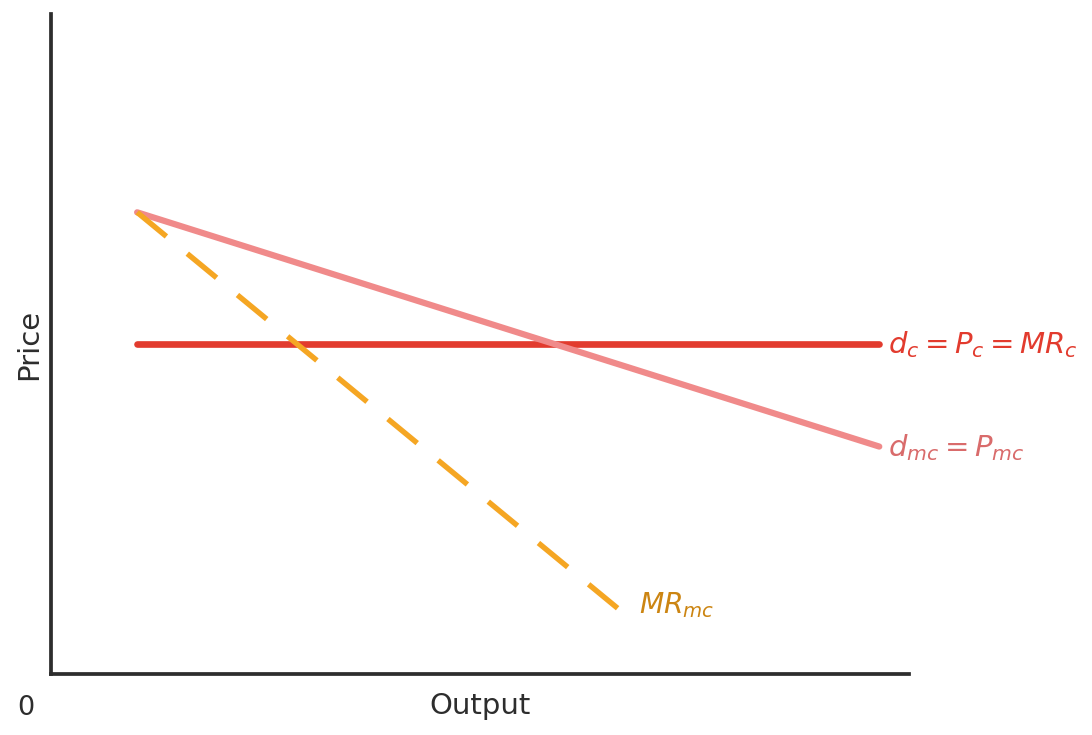
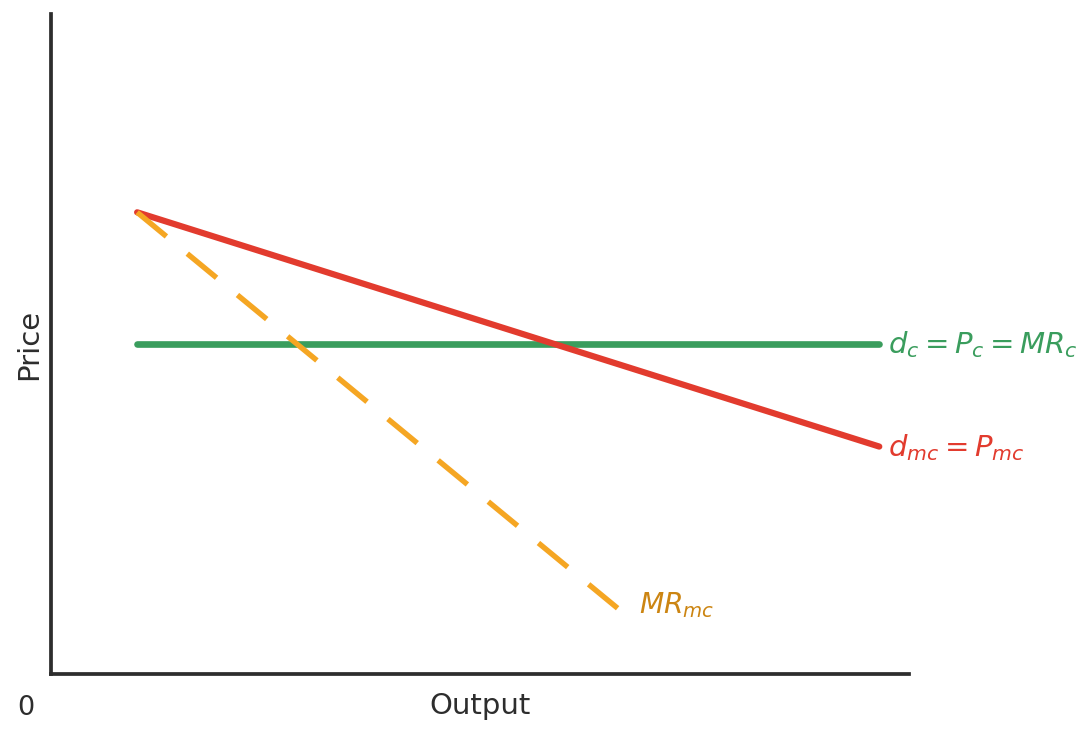
ch12: merge SR slides into one interactive Figure 12.1; embed Figure 12.2 on entry-exit; recolor demand (green PC / red MC)
- Merge MR=MC rule + SR-profit + SR-loss into one slide with the live interactive
  MonopolisticCompChart (Figure 12.1, scenario toggle) — deck 73->71.
- Entry-exit: embed the interactive MonopolisticCompLREquilibrium (Figure 12.2).
- Page-34 demand: d_c=P_c=MR_c green, d_mc=P_mc red.
- Charts iframe the ebook /figures/<slug>?embed=1; data-src lazy + poster fallback;
  iframes dropped in PDF export.

diff --git a/econ1116/ch12-monopolistic-competition/index.html b/econ1116/ch12-monopolistic-competition/index.html
@@ -587,50 +587,26 @@
 
 <!-- MR=MC rule -->
 <section id="mrmc-rule">
- <h2><i class="fa-solid fa-bullseye" style="color: var(--accent-color);"></i> The Profit-Maximizing Rule</h2>
- <div style="background: #eef3f6; border-radius: 12px; padding: 22px 28px; border-left: 5px solid var(--secondary-color); margin: 8px 0 18px 0; text-align: center;">
-  <p style="font-size: 12pt; letter-spacing: 1.5px; text-transform: uppercase; color: var(--secondary-color); font-weight: 700; margin-bottom: 8px;">Key Concept &mdash; same rule as monopoly</p>
-  <p style="font-size: 18pt; color: var(--primary-color); font-weight: 700;">Produce where MR = MC, then charge the price on the demand curve at that quantity.</p>
- </div>
- <div style="display: grid; grid-template-columns: 1fr 1fr; gap: 16px;">
-  <div style="background: #f8f6f3; border-radius: 10px; padding: 14px 20px;"><p style="font-size: 13.5pt;"><strong>Step 1.</strong> Find Q* where the MR curve crosses the MC curve.</p></div>
-  <div style="background: #f8f6f3; border-radius: 10px; padding: 14px 20px;"><p style="font-size: 13.5pt;"><strong>Step 2.</strong> Go <em>up</em> to the demand curve to read the price P*. Because P &gt; MR, we get P &gt; MC.</p></div>
- </div>
- <aside class="notes">Identical mechanic to Ch 11. The only difference is that close substitutes make this firm's demand much flatter (more elastic) than a monopolist's — so the markup is smaller.</aside>
-</section>
-
-<!-- SR profit -->
-<section id="sr-profit">
- <h2><i class="fa-solid fa-arrow-trend-up" style="color: var(--success-color);"></i> Outcome 1: Short-Run Profit (P &gt; ATC)</h2>
- <div style="display: grid; grid-template-columns: 1.05fr 1fr; gap: 20px; align-items: center;">
-  <div style="text-align: center;">
-   <img alt="Short-run economic profit: price above ATC, green profit rectangle" src="figures/fig-sr-profit.png" style="max-width: 100%; max-height: 430px; object-fit: contain; border-radius: 8px; box-shadow: 0 3px 14px rgba(0,0,0,0.14);">
-  </div>
+ <h2><i class="fa-solid fa-bullseye" style="color: var(--accent-color);"></i> Short-Run Profit Maximization: MR = MC</h2>
+ <div style="display: grid; grid-template-columns: 0.85fr 1.15fr; gap: 20px; align-items: center;">
   <div>
-   <div class="key-result"><p>At Q* (where MR = MC), the price on the demand curve sits <strong>above ATC</strong>. The green rectangle is <strong>economic profit</strong>.</p></div>
-   <div style="background: #f7f1ea; border-radius: 8px; padding: 12px 18px; border-left: 4px solid var(--accent-color); margin-top: 12px;">
-    <p style="font-size: 12pt; letter-spacing: 1px; text-transform: uppercase; color: var(--accent-color); font-weight: 700; margin-bottom: 4px;">Ghost kitchens, 2020</p>
-    <p style="font-size: 13pt;">The industry ballooned to ~<strong>$60 billion</strong> in revenue. Those profits were a beacon &mdash; and within two years, thousands of new entrants arrived.</p>
+   <div style="background: #eef3f6; border-radius: 10px; padding: 12px 18px; border-left: 5px solid var(--secondary-color); margin-bottom: 12px;">
+    <p style="font-size: 11pt; letter-spacing: 1px; text-transform: uppercase; color: var(--secondary-color); font-weight: 700; margin-bottom: 4px;">The rule (same as monopoly)</p>
+    <p style="font-size: 13.5pt;">Produce where <strong>MR = MC</strong>; charge the price on the demand curve. Since P &gt; MR, you get <strong>P &gt; MC</strong>.</p>
    </div>
-  </div>
- </div>
- <aside class="notes">Profit exists in the short run. But "those profits were a beacon" is the foreshadow — it sets up the entry mechanism of §12.3.</aside>
-</section>
-
-<!-- SR loss -->
-<section id="sr-loss">
- <h2><i class="fa-solid fa-arrow-trend-down" style="color: var(--danger-color);"></i> Outcome 2: Short-Run Loss (P &lt; ATC)</h2>
- <div style="display: grid; grid-template-columns: 1.05fr 1fr; gap: 20px; align-items: center;">
-  <div style="text-align: center;">
-   <img alt="Short-run economic loss: price below ATC, red loss rectangle" src="figures/fig-sr-loss.png" style="max-width: 100%; max-height: 430px; object-fit: contain; border-radius: 8px; box-shadow: 0 3px 14px rgba(0,0,0,0.14);">
+   <p style="font-size: 11pt; letter-spacing: 1px; text-transform: uppercase; color: var(--muted-color); font-weight: 700; margin-bottom: 6px;">Three short-run outcomes</p>
+   <div style="background: #eef6ef; border-radius: 8px; padding: 9px 16px; border-left: 4px solid var(--success-color); margin-bottom: 6px;"><p style="font-size: 12.5pt;"><strong>P &gt; ATC &rarr; profit</strong> &mdash; ghost kitchens hit ~$60B (2020)</p></div>
+   <div style="background: #f8f6f3; border-radius: 8px; padding: 9px 16px; border-left: 4px solid var(--secondary-color); margin-bottom: 6px;"><p style="font-size: 12.5pt;"><strong>P = ATC &rarr; zero profit</strong> &mdash; the long-run resting point</p></div>
+   <div style="background: #fdf2f0; border-radius: 8px; padding: 9px 16px; border-left: 4px solid var(--danger-color);"><p style="font-size: 12.5pt;"><strong>P &lt; ATC &rarr; loss</strong> &mdash; Allbirds NOPAT &minus;50% (2024)</p></div>
   </div>
   <div>
-   <div style="background: #fdf2f0; border-radius: 10px; padding: 14px 20px; border-left: 4px solid var(--danger-color);"><p style="font-size: 14pt;">If demand is too weak, the price on the curve falls <strong>below ATC</strong>. The red rectangle is an <strong>economic loss.</strong> Persist, and the firm exits.</p></div>
-   <p style="font-size: 13pt; margin-top: 12px;">This is where <strong>Allbirds</strong> sat by 2024 &mdash; a NOPAT margin of <strong>&minus;50%</strong>.</p>
-   <p style="font-size: 12.5pt; color: var(--muted-color); margin-top: 10px;">Outcome 3 &mdash; <strong>zero economic profit</strong> (P = ATC) &mdash; is the long-run resting point. That&rsquo;s §12.3.</p>
+   <div style="position: relative; width: 100%; aspect-ratio: 1000 / 780; border: 1px solid #e5e7eb; border-radius: 10px; overflow: hidden; box-shadow: 0 3px 14px rgba(0,0,0,0.12); background: #ffffff center / contain no-repeat url('figures/fig-12-1-poster.png');">
+    <iframe data-src="https://econ-1116-microeconomics-lac.vercel.app/figures/MonopolisticCompChart?embed=1" loading="lazy" title="Figure 12.1 — Monopolistic Competition (interactive)" style="position: absolute; inset: 0; width: 100%; height: 100%; border: 0;"></iframe>
+   </div>
+   <p style="font-size: 11pt; color: var(--muted-color); text-align: center; margin-top: 4px;">Figure 12.1 &mdash; toggle Short-Run Profit / Loss / Long-Run (live, interactive)</p>
   </div>
  </div>
- <aside class="notes">Mirror of the profit case. Same firm, weaker demand. The third outcome (zero profit) is the attractor we build next — flag it here.</aside>
+ <aside class="notes">Merged slide: the MR=MC rule + all three short-run outcomes in one interactive chart (Figure 12.1). Click the scenario tabs live to show profit (P>ATC), loss (P<ATC), and the zero-profit long-run. Same mechanic as monopoly, but flatter demand → smaller markup. (Replaces the old separate rule / SR-profit / SR-loss slides.)</aside>
 </section>
 
 <!-- think like an economist -->
@@ -711,11 +687,14 @@
    </div>
    <p style="font-size: 12.5pt; color: var(--muted-color); margin-top: 12px;">Same self-correction as perfect competition &mdash; but here it works by <em>shifting the firm&rsquo;s demand curve</em>, not the market price.</p>
   </div>
-  <div style="text-align: center;">
-   <img alt="Entry shifts the firm's demand curve left until it is tangent to ATC" src="figures/fig-entry-shift.png" style="max-width: 100%; max-height: 430px; object-fit: contain; border-radius: 8px; box-shadow: 0 3px 14px rgba(0,0,0,0.14);">
+  <div>
+   <div style="position: relative; width: 100%; aspect-ratio: 1000 / 780; border: 1px solid #e5e7eb; border-radius: 10px; overflow: hidden; box-shadow: 0 3px 14px rgba(0,0,0,0.12); background: #ffffff center / contain no-repeat url('figures/fig-12-2-poster.png');">
+    <iframe data-src="https://econ-1116-microeconomics-lac.vercel.app/figures/MonopolisticCompLREquilibrium?embed=1" loading="lazy" title="Figure 12.2 — Long-Run Tangency as an Attractor (interactive)" style="position: absolute; inset: 0; width: 100%; height: 100%; border: 0;"></iframe>
+   </div>
+   <p style="font-size: 11pt; color: var(--muted-color); text-align: center; margin-top: 4px;">Figure 12.2 &mdash; drag the demand slider; entry/exit eases it back to tangency (live)</p>
   </div>
  </div>
- <aside class="notes">Key contrast with Ch 10: in PC, entry shifts the MARKET supply curve and the price falls. In MC, entry shifts each FIRM'S demand curve left. Same destination (zero profit), different channel.</aside>
+ <aside class="notes">Key contrast with Ch 10: in PC, entry shifts the MARKET supply curve and the price falls. In MC, entry shifts each FIRM'S demand curve left. Same destination (zero profit), different channel. The interactive Figure 12.2 makes it tangible: drag demand up/down to create temporary profit/loss, release, and entry/exit eases it back to the zero-profit tangency.</aside>
 </section>
 
 <!-- tangency -->
@@ -1214,6 +1193,12 @@
 </div>
 </div>
 
+<!-- In decktape/PDF export, drop the live chart iframes so the static poster backgrounds render cleanly (avoids capturing a half-loaded cross-origin iframe). -->
+<script>
+ if (location.search.indexOf('export') !== -1 || location.search.indexOf('print-pdf') !== -1) {
+  document.querySelectorAll('iframe[data-src]').forEach(function(f){ if (f.parentNode) f.parentNode.removeChild(f); });
+ }
+</script>
 <script src="https://cdn.jsdelivr.net/npm/reveal.js@5.1.0/dist/reveal.js"></script>
 <script>
  Reveal.initialize({

diff --git a/econ1116/ch12-monopolistic-competition/presentation.html b/econ1116/ch12-monopolistic-competition/presentation.html
@@ -587,50 +587,26 @@
 
 <!-- MR=MC rule -->
 <section id="mrmc-rule">
- <h2><i class="fa-solid fa-bullseye" style="color: var(--accent-color);"></i> The Profit-Maximizing Rule</h2>
- <div style="background: #eef3f6; border-radius: 12px; padding: 22px 28px; border-left: 5px solid var(--secondary-color); margin: 8px 0 18px 0; text-align: center;">
-  <p style="font-size: 12pt; letter-spacing: 1.5px; text-transform: uppercase; color: var(--secondary-color); font-weight: 700; margin-bottom: 8px;">Key Concept &mdash; same rule as monopoly</p>
-  <p style="font-size: 18pt; color: var(--primary-color); font-weight: 700;">Produce where MR = MC, then charge the price on the demand curve at that quantity.</p>
- </div>
- <div style="display: grid; grid-template-columns: 1fr 1fr; gap: 16px;">
-  <div style="background: #f8f6f3; border-radius: 10px; padding: 14px 20px;"><p style="font-size: 13.5pt;"><strong>Step 1.</strong> Find Q* where the MR curve crosses the MC curve.</p></div>
-  <div style="background: #f8f6f3; border-radius: 10px; padding: 14px 20px;"><p style="font-size: 13.5pt;"><strong>Step 2.</strong> Go <em>up</em> to the demand curve to read the price P*. Because P &gt; MR, we get P &gt; MC.</p></div>
- </div>
- <aside class="notes">Identical mechanic to Ch 11. The only difference is that close substitutes make this firm's demand much flatter (more elastic) than a monopolist's — so the markup is smaller.</aside>
-</section>
-
-<!-- SR profit -->
-<section id="sr-profit">
- <h2><i class="fa-solid fa-arrow-trend-up" style="color: var(--success-color);"></i> Outcome 1: Short-Run Profit (P &gt; ATC)</h2>
- <div style="display: grid; grid-template-columns: 1.05fr 1fr; gap: 20px; align-items: center;">
-  <div style="text-align: center;">
-   <img alt="Short-run economic profit: price above ATC, green profit rectangle" src="figures/fig-sr-profit.png" style="max-width: 100%; max-height: 430px; object-fit: contain; border-radius: 8px; box-shadow: 0 3px 14px rgba(0,0,0,0.14);">
-  </div>
+ <h2><i class="fa-solid fa-bullseye" style="color: var(--accent-color);"></i> Short-Run Profit Maximization: MR = MC</h2>
+ <div style="display: grid; grid-template-columns: 0.85fr 1.15fr; gap: 20px; align-items: center;">
   <div>
-   <div class="key-result"><p>At Q* (where MR = MC), the price on the demand curve sits <strong>above ATC</strong>. The green rectangle is <strong>economic profit</strong>.</p></div>
-   <div style="background: #f7f1ea; border-radius: 8px; padding: 12px 18px; border-left: 4px solid var(--accent-color); margin-top: 12px;">
-    <p style="font-size: 12pt; letter-spacing: 1px; text-transform: uppercase; color: var(--accent-color); font-weight: 700; margin-bottom: 4px;">Ghost kitchens, 2020</p>
-    <p style="font-size: 13pt;">The industry ballooned to ~<strong>$60 billion</strong> in revenue. Those profits were a beacon &mdash; and within two years, thousands of new entrants arrived.</p>
+   <div style="background: #eef3f6; border-radius: 10px; padding: 12px 18px; border-left: 5px solid var(--secondary-color); margin-bottom: 12px;">
+    <p style="font-size: 11pt; letter-spacing: 1px; text-transform: uppercase; color: var(--secondary-color); font-weight: 700; margin-bottom: 4px;">The rule (same as monopoly)</p>
+    <p style="font-size: 13.5pt;">Produce where <strong>MR = MC</strong>; charge the price on the demand curve. Since P &gt; MR, you get <strong>P &gt; MC</strong>.</p>
    </div>
-  </div>
- </div>
- <aside class="notes">Profit exists in the short run. But "those profits were a beacon" is the foreshadow — it sets up the entry mechanism of §12.3.</aside>
-</section>
-
-<!-- SR loss -->
-<section id="sr-loss">
- <h2><i class="fa-solid fa-arrow-trend-down" style="color: var(--danger-color);"></i> Outcome 2: Short-Run Loss (P &lt; ATC)</h2>
- <div style="display: grid; grid-template-columns: 1.05fr 1fr; gap: 20px; align-items: center;">
-  <div style="text-align: center;">
-   <img alt="Short-run economic loss: price below ATC, red loss rectangle" src="figures/fig-sr-loss.png" style="max-width: 100%; max-height: 430px; object-fit: contain; border-radius: 8px; box-shadow: 0 3px 14px rgba(0,0,0,0.14);">
+   <p style="font-size: 11pt; letter-spacing: 1px; text-transform: uppercase; color: var(--muted-color); font-weight: 700; margin-bottom: 6px;">Three short-run outcomes</p>
+   <div style="background: #eef6ef; border-radius: 8px; padding: 9px 16px; border-left: 4px solid var(--success-color); margin-bottom: 6px;"><p style="font-size: 12.5pt;"><strong>P &gt; ATC &rarr; profit</strong> &mdash; ghost kitchens hit ~$60B (2020)</p></div>
+   <div style="background: #f8f6f3; border-radius: 8px; padding: 9px 16px; border-left: 4px solid var(--secondary-color); margin-bottom: 6px;"><p style="font-size: 12.5pt;"><strong>P = ATC &rarr; zero profit</strong> &mdash; the long-run resting point</p></div>
+   <div style="background: #fdf2f0; border-radius: 8px; padding: 9px 16px; border-left: 4px solid var(--danger-color);"><p style="font-size: 12.5pt;"><strong>P &lt; ATC &rarr; loss</strong> &mdash; Allbirds NOPAT &minus;50% (2024)</p></div>
   </div>
   <div>
-   <div style="background: #fdf2f0; border-radius: 10px; padding: 14px 20px; border-left: 4px solid var(--danger-color);"><p style="font-size: 14pt;">If demand is too weak, the price on the curve falls <strong>below ATC</strong>. The red rectangle is an <strong>economic loss.</strong> Persist, and the firm exits.</p></div>
-   <p style="font-size: 13pt; margin-top: 12px;">This is where <strong>Allbirds</strong> sat by 2024 &mdash; a NOPAT margin of <strong>&minus;50%</strong>.</p>
-   <p style="font-size: 12.5pt; color: var(--muted-color); margin-top: 10px;">Outcome 3 &mdash; <strong>zero economic profit</strong> (P = ATC) &mdash; is the long-run resting point. That&rsquo;s §12.3.</p>
+   <div style="position: relative; width: 100%; aspect-ratio: 1000 / 780; border: 1px solid #e5e7eb; border-radius: 10px; overflow: hidden; box-shadow: 0 3px 14px rgba(0,0,0,0.12); background: #ffffff center / contain no-repeat url('figures/fig-12-1-poster.png');">
+    <iframe data-src="https://econ-1116-microeconomics-lac.vercel.app/figures/MonopolisticCompChart?embed=1" loading="lazy" title="Figure 12.1 — Monopolistic Competition (interactive)" style="position: absolute; inset: 0; width: 100%; height: 100%; border: 0;"></iframe>
+   </div>
+   <p style="font-size: 11pt; color: var(--muted-color); text-align: center; margin-top: 4px;">Figure 12.1 &mdash; toggle Short-Run Profit / Loss / Long-Run (live, interactive)</p>
   </div>
  </div>
- <aside class="notes">Mirror of the profit case. Same firm, weaker demand. The third outcome (zero profit) is the attractor we build next — flag it here.</aside>
+ <aside class="notes">Merged slide: the MR=MC rule + all three short-run outcomes in one interactive chart (Figure 12.1). Click the scenario tabs live to show profit (P>ATC), loss (P<ATC), and the zero-profit long-run. Same mechanic as monopoly, but flatter demand → smaller markup. (Replaces the old separate rule / SR-profit / SR-loss slides.)</aside>
 </section>
 
 <!-- think like an economist -->
@@ -711,11 +687,14 @@
    </div>
    <p style="font-size: 12.5pt; color: var(--muted-color); margin-top: 12px;">Same self-correction as perfect competition &mdash; but here it works by <em>shifting the firm&rsquo;s demand curve</em>, not the market price.</p>
   </div>
-  <div style="text-align: center;">
-   <img alt="Entry shifts the firm's demand curve left until it is tangent to ATC" src="figures/fig-entry-shift.png" style="max-width: 100%; max-height: 430px; object-fit: contain; border-radius: 8px; box-shadow: 0 3px 14px rgba(0,0,0,0.14);">
+  <div>
+   <div style="position: relative; width: 100%; aspect-ratio: 1000 / 780; border: 1px solid #e5e7eb; border-radius: 10px; overflow: hidden; box-shadow: 0 3px 14px rgba(0,0,0,0.12); background: #ffffff center / contain no-repeat url('figures/fig-12-2-poster.png');">
+    <iframe data-src="https://econ-1116-microeconomics-lac.vercel.app/figures/MonopolisticCompLREquilibrium?embed=1" loading="lazy" title="Figure 12.2 — Long-Run Tangency as an Attractor (interactive)" style="position: absolute; inset: 0; width: 100%; height: 100%; border: 0;"></iframe>
+   </div>
+   <p style="font-size: 11pt; color: var(--muted-color); text-align: center; margin-top: 4px;">Figure 12.2 &mdash; drag the demand slider; entry/exit eases it back to tangency (live)</p>
   </div>
  </div>
- <aside class="notes">Key contrast with Ch 10: in PC, entry shifts the MARKET supply curve and the price falls. In MC, entry shifts each FIRM'S demand curve left. Same destination (zero profit), different channel.</aside>
+ <aside class="notes">Key contrast with Ch 10: in PC, entry shifts the MARKET supply curve and the price falls. In MC, entry shifts each FIRM'S demand curve left. Same destination (zero profit), different channel. The interactive Figure 12.2 makes it tangible: drag demand up/down to create temporary profit/loss, release, and entry/exit eases it back to the zero-profit tangency.</aside>
 </section>
 
 <!-- tangency -->
@@ -1214,6 +1193,12 @@
 </div>
 </div>
 
+<!-- In decktape/PDF export, drop the live chart iframes so the static poster backgrounds render cleanly (avoids capturing a half-loaded cross-origin iframe). -->
+<script>
+ if (location.search.indexOf('export') !== -1 || location.search.indexOf('print-pdf') !== -1) {
+  document.querySelectorAll('iframe[data-src]').forEach(function(f){ if (f.parentNode) f.parentNode.removeChild(f); });
+ }
+</script>
 <script src="https://cdn.jsdelivr.net/npm/reveal.js@5.1.0/dist/reveal.js"></script>
 <script>
  Reveal.initialize({
